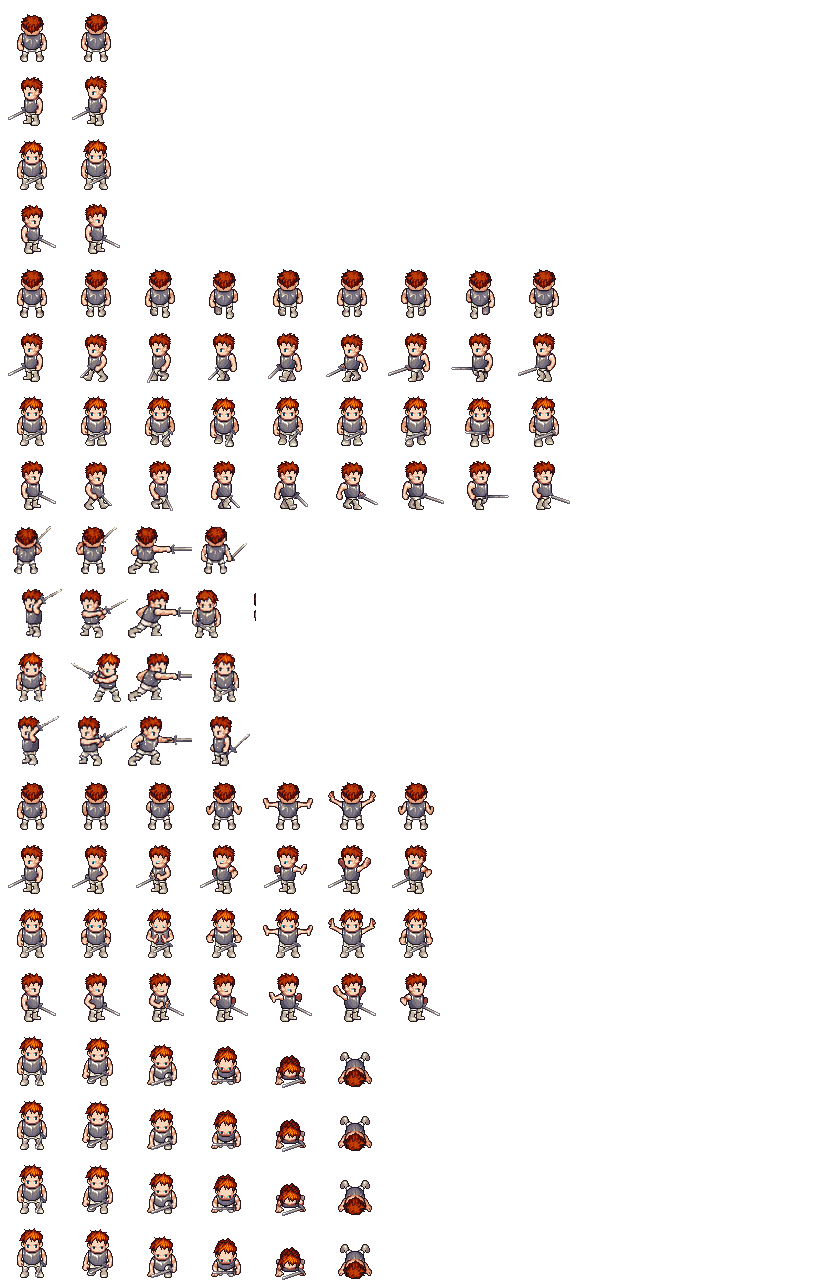
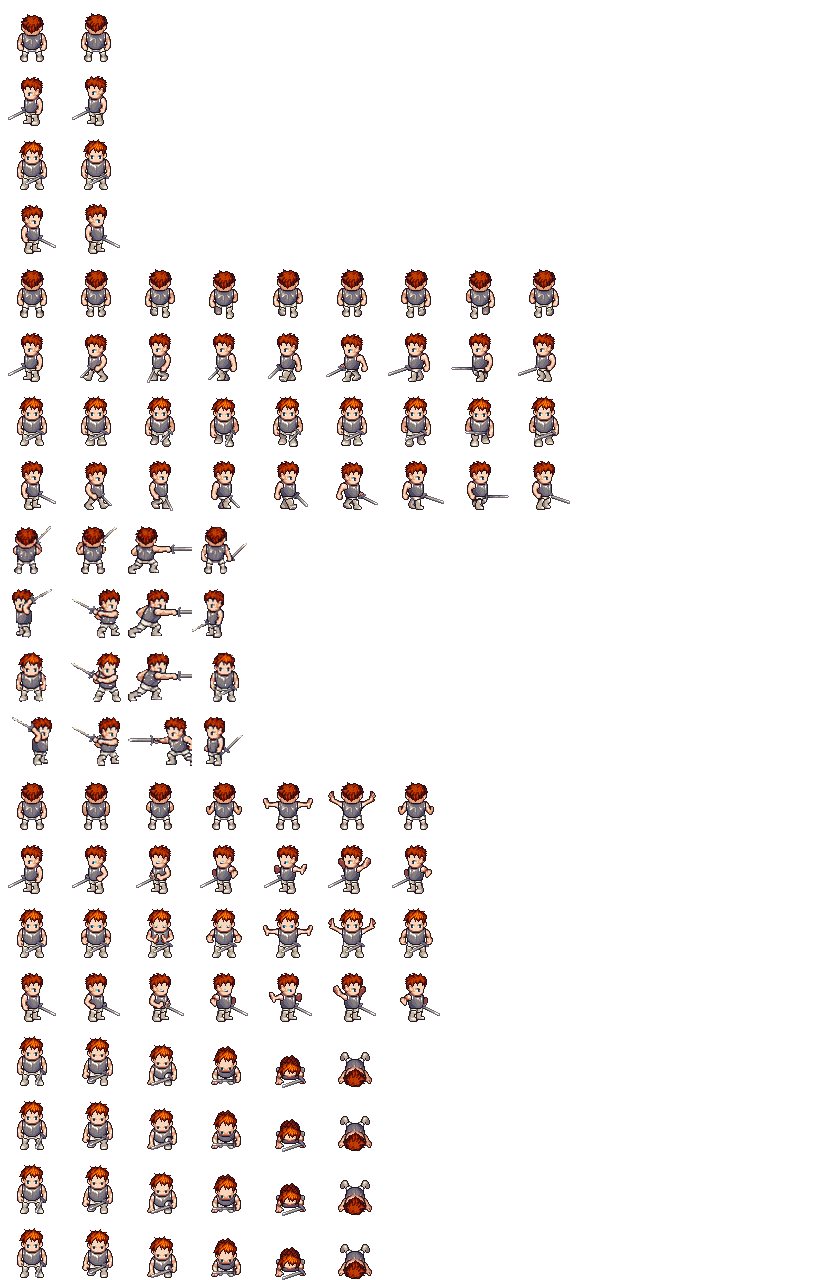
Fix: composite the weapon film per column, not per block
The previous rule skipped the LPC weapon film for any block that had generated
art, which is one level too coarse: the idle patch fills only columns 2-3, and
when a sheet's unarmed idle poses get pruned after the character picks up a
weapon, columns 0-1 are still plain LPC frames. Those columns were left
bare-handed, so the idle loop popped between a hand and a sword (measured on the
goblin, raider and minotaur: column 0 bbox 30x48 without a weapon, column 3 with
one).

weapon_column_ok() now answers per column, using the same source folders and the
same FIRST_COL/KEEP_COLS layout make_idle_frames.py patches with, so the two
cannot drift. Armed sheets get the film in columns 0-1 and not in 2-3; a sheet
with no idle art at all (skeleton) gets it in all four; walk/hurt/spellcast always
get it. Re-composed every sheet and verified by bbox on the south idle row.

Also recorded: deleting .godot/ (the workspace-size pass does) means Godot cannot
resolve class_name globals until a re-import, which makes every suite die with
"Identifier X not declared" and looks like a code regression. Run --import first.

diff --git a/tools/lpc_compose.py b/tools/lpc_compose.py
@@ -242,20 +242,30 @@ def load_layer(rel: str, adjust: dict | None = None):
     return img
 
 
-def weapon_skips(name: str, anim: str) -> bool:
-    """True when this sheet's block is generated art that already draws the weapon.
+def weapon_column_ok(name: str, anim: str, col: int) -> bool:
+    """May the LPC weapon film be composited into this column of this block?
 
-    A generated pose is drawn with the character's weapon in hand (that is what
-    the generator is asked for), so compositing the LPC weapon film over it too
-    would draw two swords. Detected from the source folders, which is also what
-    make_idle_frames.patch_sheet() consumes — the two cannot drift apart.
+    A generated pose is drawn with the character's weapon already in hand (that
+    is what the generator is asked for), so compositing the film over it too
+    would draw two swords. But a block is not necessarily all-generated: the
+    idle patch only fills columns 2-3, and when a sheet has no idle art at all
+    (its old poses were pruned because the character picked up a weapon) columns
+    0-1 are still plain LPC frames — those need the film, or the idle loop pops
+    between a bare hand and a sword. So the answer is per column, derived from
+    the same source folders and column layout make_idle_frames.py patches with.
     """
-    src_dir = os.path.join(OUT, "_idle_src" if anim == "idle" else "_attack_src")
-    return os.path.exists(os.path.join(src_dir, name + ".png"))
+    patcher = _idle_patcher()
+    if patcher is None or anim not in patcher.SRC_DIRS:
+        return True          # walk/hurt/spellcast are never generated art
+    src = os.path.join(patcher.SRC_DIRS[anim], name + ".png")
+    if not os.path.exists(src):
+        return True
+    first = patcher.FIRST_COL[anim]
+    return col < first or col >= first + patcher.KEEP_COLS[anim]
 
 
 def paste_weapon(sheet: Image.Image, kind: str, part: str, anim: str, d_i: int,
-                 row: int, frames: int) -> int:
+                 row: int, frames: int, name: str = "") -> int:
     """Composite one weapon film into a block. Returns frames actually pasted.
 
     The film's canvas decides the geometry: 64 px frames paste 1:1, 128 px frames
@@ -282,6 +292,8 @@ def paste_weapon(sheet: Image.Image, kind: str, part: str, anim: str, d_i: int,
     src_row = d_i if layer.size[1] // cell >= 4 else 0
     pasted = 0
     for f in range(frames):
+        if name and not weapon_column_ok(name, anim, f):
+            continue
         src_col = src_frame if src_frame is not None else f
         if src_col * cell + cell > layer.size[0] or src_row * cell + cell > layer.size[1]:
             continue
@@ -354,12 +366,9 @@ def compose(layers: list[str], out_path: str) -> int:
     for a_i, (anim, frames) in enumerate(ANIMS):
         for d_i in range(4):
             row = a_i * 4 + d_i
-            skip_weapon = weapon_skips(name, anim)
             for spec in behind + body + weapon_fg:
                 if _is_weapon(spec):
-                    if skip_weapon:
-                        continue
-                    paste_weapon(sheet, spec[1], _weapon_part(spec), anim, d_i, row, frames)
+                    paste_weapon(sheet, spec[1], _weapon_part(spec), anim, d_i, row, frames, name)
                     continue
                 template, adjust = spec if isinstance(spec, tuple) else (spec, None)
                 layer = load_layer(template % anim, adjust)

diff --git a/DECISIONS.md b/DECISIONS.md
@@ -1059,3 +1059,24 @@ held ~1024 px generated sheets that the icon tool only ever keys and shrinks to
 32x32 — halved to 512 px (8.6 MB -> 2.0 MB); re-running the pipeline changed
 37-170 pixels out of 1024 per icon, i.e. the same art within the magenta key's
 own tolerance. Workspace: 88 MB with the repo at 116 MB including `.git`.
+
+**#70 — The weapon film is composited per column, not per block** · 2026-09-11
+#69's rule ("a block made of generated art must not also composite the LPC weapon
+film, or the sword is drawn twice") was right but stated one level too coarse: a
+block is not necessarily all-generated. The idle patch fills only columns 2-3, and
+when a sheet's old (unarmed) idle poses get pruned because the character picked up
+a weapon, columns 0-1 are plain LPC frames — so a whole-block skip left the idle
+loop popping between a bare hand and a sword (measured: column 0 bbox 30x48 with no
+weapon, column 3 with one). `weapon_column_ok()` now answers per column, from the
+same source folders and the same FIRST_COL/KEEP_COLS layout make_idle_frames.py
+patches with, so the two cannot drift: armed sheets get the film in columns 0-1 and
+none in 2-3, unarmed-idle sheets (skeleton) get it in all four, and walk/hurt/
+spellcast always get it. Verified by bbox on the south idle row of goblin, raider
+and minotaur.
+
+**#70b — Deleting .godot/ costs a re-import before any test.** The workspace-size
+pass deletes the generated import cache (14 MB, untracked). Without it, Godot
+cannot resolve `class_name` globals and every suite dies instantly with
+"Identifier X not declared in the current scope" — which looks like a code
+regression and is not. Always run `godot --headless --import` after removing
+`.godot/` (one import, ~10 s) before trusting a test result.
